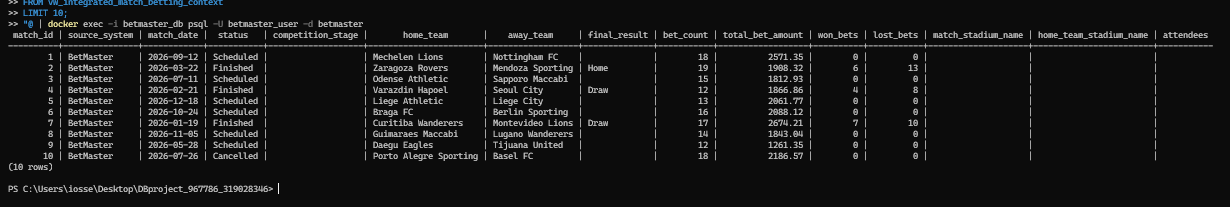
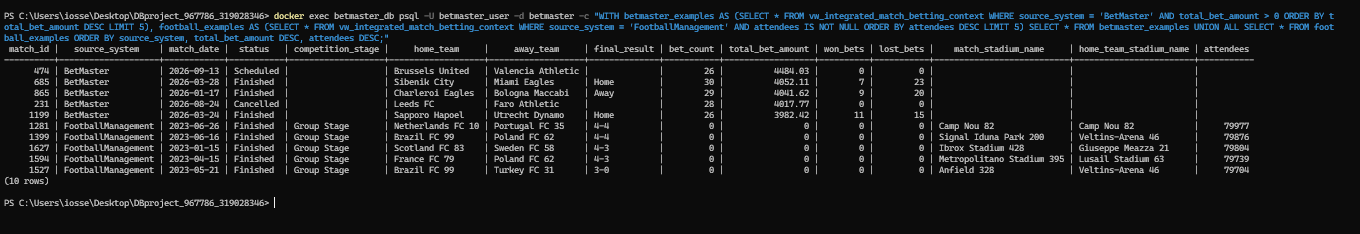
Stage C integration and views

diff --git a/שלב_ג/README.md b/שלב_ג/README.md
@@ -57,6 +57,10 @@ Main tables in the received system:
 
 ![Received DSD](Diagrams/received_DSD.png)
 
+**How to read this image:** this diagram shows the physical table structure of
+the received database before integration. It is used as evidence that we
+restored and analyzed the other group's backup.
+
 ## 4. Received Department ERD
 
 After building the DSD, we reverse engineered it into an ERD.
@@ -75,6 +79,10 @@ Relationship tables such as `matchteam`, `coachedby`, `playsfor_player`, and `re
 **ERD of the received department:**
 
 ![Received ERD](Diagrams/received_ERD.png)
+
+**How to read this image:** this diagram converts the received tables into
+conceptual entities and relationships. It shows the reverse engineering result
+for the received department.
 
 ## 5. Reverse Engineering Algorithm
 
@@ -142,6 +150,10 @@ The BetMaster side connects through bets, users, odds, and transactions. The Foo
 
 ![Integrated ERD](Diagrams/integrated_ERD.png)
 
+**How to read this image:** this is the conceptual design of the combined
+system. `Team` and `Match` are the shared center, with BetMaster entities on
+one side and Football Management entities on the other side.
+
 ## 8. DSD After Integration
 
 The DSD after integration was generated from the integrated ERD in ERDPlus. It shows the relational schema that comes from the ERD design, including the main tables, keys, and relationships.
@@ -156,6 +168,10 @@ Diagrams/integrated_DSD_erdplus.png
 
 ![Integrated DSD Generated By ERDPlus](Diagrams/integrated_DSD_erdplus.png)
 
+**How to read this image:** this is the relational schema generated from the
+integrated ERD design. It shows the expected database structure according to the
+ERDPlus conversion.
+
 In addition, we kept a schema-based DSD that reflects the actual implemented database structure after running `Integrate.sql`:
 
 ```text
@@ -165,6 +181,10 @@ Diagrams/integrated_DSD.png
 **Implemented relational schema DSD:**
 
 ![Integrated DSD Implemented Schema](Diagrams/integrated_DSD.png)
+
+**How to read this image:** this diagram reflects the database that was
+actually implemented by `Integrate.sql`. It includes implementation details
+such as mapping tables and technical integration columns.
 
 ## 9. Why the ERDPlus DSD and Implemented DSD Are Not Identical
 
@@ -202,6 +222,11 @@ After the integration, we verified that the combined database contains data in b
 
 ![Integration Counts](screenshots/integration_counts.png)
 
+**What this screenshot proves:** the integrated database contains records from
+both systems. BetMaster tables such as `users`, `bets`, `transactions`, and
+`odds` still contain data, and the new `football_*` tables also contain data
+from the received system.
+
 Full validation output:
 
 ```text
@@ -212,11 +237,17 @@ integration_validation_output.txt
 
 The assignment requires running the previous stage queries on the integrated database to make sure they still work.
 
-We ran Stage B queries after the integration.
+We ran Stage B queries after the integration. The screenshot below shows the
+`top_recent_winners.sql` query running on the integrated database and returning
+recent users with high winnings.
 
 **Example output:**
 
 ![Stage B Query On Integrated DB](screenshots/stage_b_top_recent_winners_integrated.png)
+
+**What this screenshot proves:** a query from Stage B still runs successfully
+after the integration. The output lists recent users with high winnings, so the
+original BetMaster functionality was not broken by the integration.
 
 Full output:
 
@@ -264,6 +295,9 @@ LIMIT 10;
 
 ![BetMaster View Select](screenshots/view_betmaster_select.png)
 
+**What this screenshot shows:** 10 example rows from the BetMaster view. Each
+row summarizes one user's betting and financial activity.
+
 ### Query 1 on BetMaster View
 
 Purpose: find active users with high betting volume.
@@ -285,6 +319,9 @@ LIMIT 10;
 
 ![BetMaster View Query 1](screenshots/view_betmaster_query1.png)
 
+**What this screenshot shows:** active users with many bets, ordered by total
+betting volume. This helps the betting department identify high-activity users.
+
 ### Query 2 on BetMaster View
 
 Purpose: find users whose winnings are greater than their withdrawals.
@@ -303,6 +340,10 @@ LIMIT 10;
 ```
 
 ![BetMaster View Query 2](screenshots/view_betmaster_query2.png)
+
+**What this screenshot shows:** users whose total winnings are greater than
+their withdrawals. The calculated column shows the remaining difference between
+winnings and withdrawals.
 
 ## 15. View 2 - Football Management Point of View
 
@@ -335,6 +376,9 @@ LIMIT 10;
 
 ![Football View Select](screenshots/view_football_select.png)
 
+**What this screenshot shows:** 10 example rows from the Football Management
+view. Each row summarizes one player's team, contract, and match performance.
+
 ### Query 1 on Football View
 
 Purpose: find the most productive players by goals and assists.
@@ -355,6 +399,10 @@ LIMIT 10;
 
 ![Football View Query 1](screenshots/view_football_query1.png)
 
+**What this screenshot shows:** the most productive players by total goal
+contribution. The `total_contributions` column is calculated as goals plus
+assists.
+
 ### Query 2 on Football View
 
 Purpose: find high salary players with low goal contribution.
@@ -368,13 +416,17 @@ SELECT
     matches_played,
     total_goals
 FROM vw_football_player_performance
-WHERE salary > 1000000
+WHERE salary > 100000
   AND total_goals < 5
 ORDER BY salary DESC
 LIMIT 10;
 ```
 
 ![Football View Query 2](screenshots/view_football_query2.png)
+
+**What this screenshot shows:** high-salary players with low goal contribution.
+The salary threshold is set to `100000` because this matches the salary scale in
+the actual data.
 
 ## 16. Additional Integrated View
 
@@ -384,15 +436,43 @@ In addition to the required two views, we created an extra integrated view:
 vw_integrated_match_betting_context
 ```
 
-This view combines match information with betting context, teams, stadiums, attendance, and source system information.
+This view combines match information with betting context, teams, stadiums,
+attendance, and source system information. The screenshot uses a mixed sample:
+BetMaster rows demonstrate betting activity, while FootballManagement rows
+demonstrate stadium and attendance data.
 
 ```sql
+WITH betmaster_examples AS (
+    SELECT *
+    FROM vw_integrated_match_betting_context
+    WHERE source_system = 'BetMaster'
+      AND total_bet_amount > 0
+    ORDER BY total_bet_amount DESC
+    LIMIT 5
+), football_examples AS (
+    SELECT *
+    FROM vw_integrated_match_betting_context
+    WHERE source_system = 'FootballManagement'
+      AND attendees IS NOT NULL
+    ORDER BY attendees DESC
+    LIMIT 5
+)
 SELECT *
-FROM vw_integrated_match_betting_context
-LIMIT 10;
+FROM betmaster_examples
+UNION ALL
+SELECT *
+FROM football_examples
+ORDER BY source_system, total_bet_amount DESC, attendees DESC;
 ```
 
 ![Integrated View Select](screenshots/view_integrated_select.png)
+
+**What this screenshot shows:** a mixed sample from the integrated view. The
+BetMaster rows show betting activity, while the FootballManagement rows show
+stadium and attendance data. Empty stadium columns in BetMaster rows are
+expected because the original betting system did not store stadium information.
+Zero betting columns in FootballManagement rows are also expected because the
+received system did not store bets.
 
 ## 17. Final Backup
 

diff --git a/שלב_ג/דוח הפרויקט שלב ג.md b/שלב_ג/דוח הפרויקט שלב ג.md
@@ -222,7 +222,7 @@ SELECT
     matches_played,
     total_goals
 FROM vw_football_player_performance
-WHERE salary > 1000000
+WHERE salary > 100000
   AND total_goals < 5
 ORDER BY salary DESC
 LIMIT 10;
@@ -232,12 +232,11 @@ LIMIT 10;
 
 ## 14. מבט נוסף שנוצר במערכת המשולבת
 
-בנוסף לשני המבטים הנדרשים, נוצר גם מבט משולב בשם `vw_integrated_match_betting_context`. המבט מציג משחקים מהמערכת המשולבת יחד עם נתוני הימורים, קבוצות, אצטדיון וכמות קהל.
+בנוסף לשני המבטים הנדרשים, נוצר גם מבט משולב בשם `vw_integrated_match_betting_context`. המבט מציג משחקים מהמערכת המשולבת יחד עם נתוני הימורים, קבוצות, אצטדיון וכמות קהל. בצילום המסך מוצגת דוגמה משולבת: רשומות של `BetMaster` שמציגות פעילות הימורים ורשומות של `FootballManagement` שמציגות נתוני אצטדיון וקהל.
 
 פלט לדוגמה:
 
 - `שלב_ג/screenshots/view_integrated_select.png`
-- `שלב_ג/screenshots/view_integrated_select_terminal.png`
 
 ## 15. יצירת הגיבוי הסופי
 
